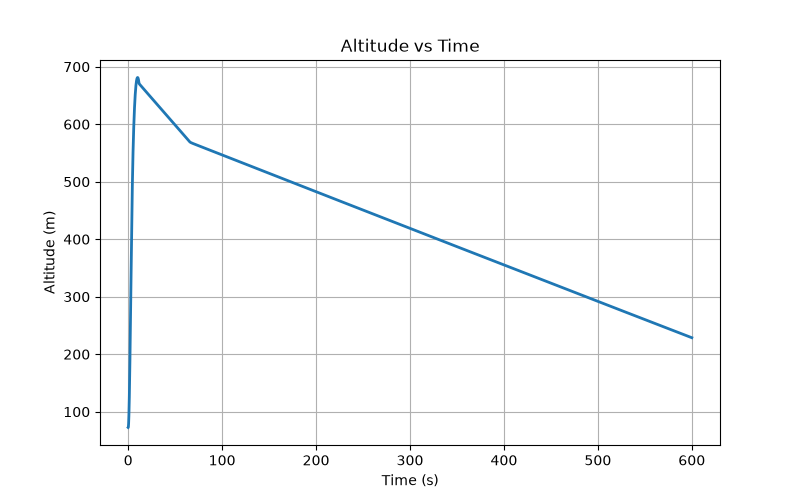
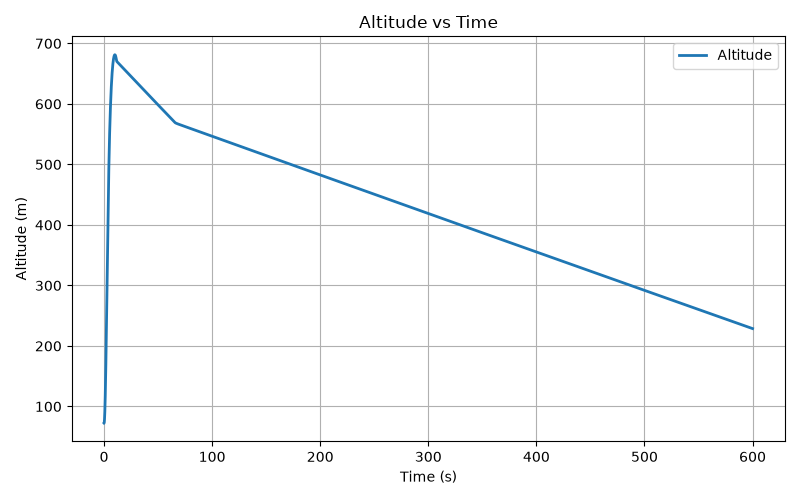
organised the images

diff --git a/plots.py b/plots.py
@@ -23,7 +23,7 @@ def plot_altitude(data):
 
     plt.tight_layout()
 
-    plt.savefig("screenshots/flight_dashboard.png")
+    plt.savefig("screenshots/altitude_vs_time.png")
 
     plt.show()
 
@@ -41,7 +41,7 @@ def plot_velocity(data):
     plt.ylabel("Velocity (m/s)")
     plt.grid(True)
     plt.legend()
-    plt.savefig("screenshots/flight_dashboard.png")
+    plt.savefig("screenshots/velocity_vs_time.png")
     plt.show()
 
 def plot_acceleration(data):
@@ -58,6 +58,6 @@ def plot_acceleration(data):
     plt.ylabel("Acceleration (m/s²)")
     plt.grid(True)
     plt.legend()
-    plt.savefig("screenshots/flight_dashboard.png")
+    plt.savefig("screenshots/acceleration_vs_time.png")
 
     plt.show()